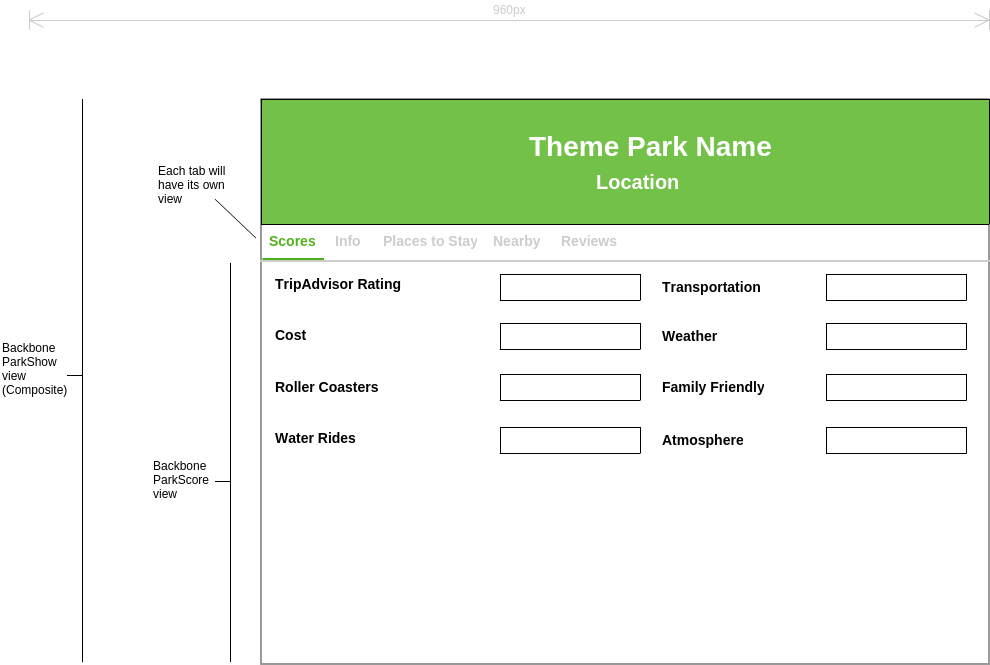
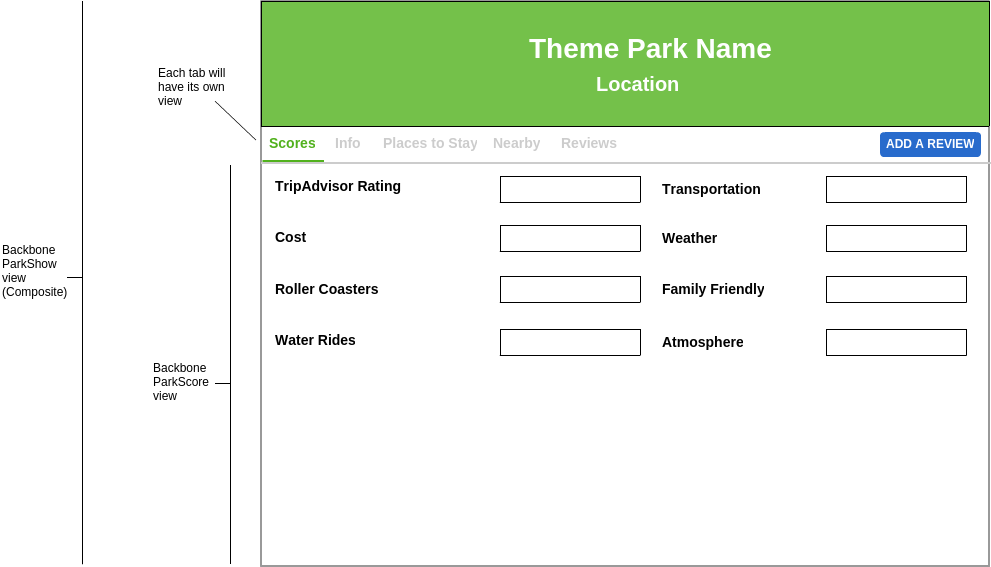
Update README * Update wireframes * Add schema * Add phase descriptions

diff --git a/README.md b/README.md
@@ -1,4 +1,4 @@
-# Flux-capacitr
+# Theme-Park-List
 
 [Heroku link][heroku]
 
@@ -30,46 +30,28 @@ Theme Park List is a clone of Nomadlist built on Rails and Backbone. Users can:
 
 ## Implementation Timeline
 
-### Phase 1: User Authentication, Blog Creation (~1 day)
-I will implement user authentication in Rails based on the practices learned at
-App Academy. By the end of this phase, users will be able to create blogs using
-a simple text form in a Rails view. The most important part of this phase will
-be pushing the app to Heroku and ensuring that everything works before moving on
-to phase 2.
+### Phase 1: Viewing Parks (~2 days)
+I will provide seed data for a few parks to facilitate testing. I will make the rails model, controller and jbuilder views for the parks. Then I'll set up the Backbone views related to parks. By the end of this phase, users should be able to navigate between the parks index view and park show view, and between the different tabs within a park show view.
 
 [Details][phase-one]
 
-### Phase 2: Viewing Blogs and Posts (~2 days)
-I will add API routes to serve blog and post data as JSON, then add Backbone
-models and collections that fetch data from those routes. By the end of this
-phase, users will be able to create blogs and view both blogs and posts, all
-inside a single Backbone app.
+### Phase 2: Derived Attributes (~1 day)
+I will write code in the Rails Park model to provide access to a park's costs and weather. A park's costs will be broken down into different parts, and the data will live in the costs table. The Rails Park model will provide access to these costs, as well as a calculated total cost. A park's weather will be derived from its location. I will need to use an API to convert location into average temp and rainfall. I'll then write methods in the Rails Park model to get the average temp and rainfall for each season, as well as to return an abstracted weather score based on this information.
 
 [Details][phase-two]
 
-### Phase 3: Editing and Displaying Posts (~2 days)
-I plan to use third-party libraries to add functionality to the `PostForm` and
-`PostShow` views in this phase. First I'll need to add a Markdown editor to the
-`PostForm`, and make sure that the Markdown is properly escaped and formatted in
-the `PostShow` view. I also plan to integrate Filepicker for file upload so
-users can add images to blog posts.
+### Phase 3: Filtering and Searching for Parks (~1-2 days)
+I will make a Backbone view to provide a user interface for filtering parks. When the user clicks the "filter parks" button, the ParksIndex view will be updated to only contain parks that meet the selected criteria. I'll also provide a search bar that will update the results of the ParksIndex view as the user types.
 
 [Details][phase-three]
 
-### Phase 4: User Feeds (~1-2 days)
-I'll start by adding a `feed` route that uses the `current_user`'s
-`subscribed_blogs` association to serve a list of blog posts ordered
-chronologically. On the Backbone side, I'll make a `FeedShow` view whose `posts`
-collection fetches from the new route.  Ultimately, this will be the page users
-see after logging in.
+### Phase 4: Users, Follows, and Reviews (~2 days)
+I'll allow users to sign in using OmniAuth. They will be able to follow parks, see a list of their followed parks, and write reviews. I'll update the Rails Park model to automatically update its ratings based on the reviews that users leave.
 
 [Details][phase-four]
 
-### Phase 5: Searching for Blogs and Posts (~2 days)
-I'll need to add `search` routes to both the Blogs and Posts controllers. On the
-Backbone side, there will be a `SearchResults` composite view has `BlogsIndex`
-and `PostsIndex` subviews. These views will use plain old `blogs` and `posts`
-collections, but they will fetch from the new `search` routes.
+### Phase 5: Map of Parks, Nearby Parks (~1 day)
+I'll allow users to view a map of parks on the main page. I'll also add a "nearby parks" tab on the park show page.
 
 [Details][phase-five]
 

diff --git a/docs/schema.md b/docs/schema.md
@@ -1,39 +1,27 @@
 # Schema Information
 
-## blogs
-column name | data type | details
-------------|-----------|-----------------------
-id          | integer   | not null, primary key
-owner_id    | integer   | not null, foreign key (references users)
-title       | string    | not null
+## parks
+column name      | data type | details
+-----------------|-----------|-----------------------
+id               | integer   | not null, primary key
+name             | string    | not null, unique
+location         | string    | not null
+tripadv_rating   | integer   |
+roller_coasters  | integer   |
+water_rides      | integer   |
+user_rating      | integer   |
+atmosphere       | integer   |
+family_friendly  | integer   |
+intesity         | integer   |
+wait_times       | integer   |
 
-## followings
+## costs
 column name | data type | details
 ------------|-----------|-----------------------
 id          | integer   | not null, primary key
-blog_id     | integer   | not null, foreign key (references blogs)
-follower_id | integer   | not null, foreign key (references users)
-
-## posts
-column name | data type | details
-------------|-----------|-----------------------
-id          | integer   | not null, primary key
-author_id   | integer   | not null, foreign key (references users)
-title       | string    | not null
-body        | string    |
-
-## tags
-column name | data type | details
-------------|-----------|-----------------------
-id          | integer   | not null, primary key
-label       | string    | not null, unique
-
-## taggings
-column name | data type | details
-------------|-----------|-----------------------
-id          | integer   | not null, primary key
-post_id     | integer   | not null, foreign key (references posts)
-tag_id      | integer   | not null, foreign key (references tags)
+park_id     | integer   | not null, foreign key (references parks)
+amount      | integer   | not null
+type        | integer   | not null
 
 ## users
 column name     | data type | details
@@ -43,3 +31,23 @@ email           | string    | not null, unique
 password_digest | string    | not null
 session_token   | string    | not null, unique
 
+## reviews
+column name     | data type | details
+----------------|-----------|-----------------------
+id              | integer   | not null, primary key
+author_id       | integer   | not null, foreign key (references users)
+park_id         | integer   | not null, foreign key (references parks)
+overall         | integer   | not null
+atmosphere      | integer   |
+family_friendly | integer   | 
+intesity        | integer   |
+wait_times      | integer   |
+title           | string    |
+body            | text      |
+
+## followings
+column name | data type | details
+------------|-----------|-----------------------
+id          | integer   | not null, primary key
+park_id     | integer   | not null, foreign key (references parks)
+follower_id | integer   | not null, foreign key (references users)

diff --git a/docs/phases/phase2.md b/docs/phases/phase2.md
@@ -2,28 +2,23 @@
 
 ## Rails
 ### Models
+* Cost
 
 ### Controllers
-Api::BlogsController (create, destroy, index, show)
-Api::PostsController (create, destroy, show, update)
 
 ### Views
-* blogs/show.json.jbuilder
+* parks/index.json.jbuilder (update)
+* parks/show.json.jbuilder (update)
+* parks/_park.json.jbuilder (update)
 
 ## Backbone
 ### Models
-* Blog (parses nested `posts` association)
-* Post
 
 ### Collections
-* Blogs
-* Posts
+
 
 ### Views
-* BlogForm
-* BlogShow (composite view, contains PostsIndex subview)
-* PostsIndex (composite view, contains PostsIndexItem subviews)
-* PostsIndexItem
-* PostShow
+* ParkCost
 
 ## Gems/Libraries
+* Possibly something to get weather info from location (TBD)

diff --git a/docs/phases/phase1.md b/docs/phases/phase1.md
@@ -2,27 +2,28 @@
 
 ## Rails
 ### Models
-* User
-* Blog
-* Post
+* Park
 
 ### Controllers
-* UsersController (create, new)
-* SessionsController (create, new, destroy)
-* BlogsController (create, new, show)
-* PostsController (create, new, show)
+* Api::ParksController (index, show)
 
 ### Views
-* users/new.html.erb
-* session/new.html.erb
-* blogs/new.html.erb
-* blogs/show.html.erb
+* parks/index.json.jbuilder
+* parks/show.json.jbuilder
+* parks/_park.json.jbuilder
 
 ## Backbone
 ### Models
+* Park
 
 ### Collections
+* Parks
 
 ### Views
+* ParksIndex
+* ParksIndexItem
+* ParkShow
+* ParkScore
+* ParkInfo
 
 ## Gems/Libraries

diff --git a/docs/phases/phase4.md b/docs/phases/phase4.md
@@ -2,19 +2,33 @@
 
 ## Rails
 ### Models
+* User
+* Review
+* Following
 
 ### Controllers
-Api::PostsController (feed)
+* UsersController (create, new)
+* SessionsController (create, new)
+* ReviewsController (create, update, destroy, show, index)
 
 ### Views
-posts/feed.json.jbuilder
+* users/show.json.jbuilder
+* reviews/index.json.jbuilder
+* reviews/show.json.jbuilder
+* reviews/_review.json.jbuilder
 
 ## Backbone
 ### Models
+* Review
+* User
 
 ### Collections
+* Reviews
 
 ### Views
-* FeedShow (composite view, contains PostsIndex subview)
+* ReviewsIndex
+* ReviewsIndexItem
+* UserShow
 
 ## Gems/Libraries
+* BCrypt

diff --git a/docs/phases/phase5.md b/docs/phases/phase5.md
@@ -4,8 +4,7 @@
 ### Models
 
 ### Controllers
-Api::BlogsController (search)
-Api::PostsController (search)
+
 
 ### Views
 
@@ -15,8 +14,8 @@ Api::PostsController (search)
 ### Collections
 
 ### Views
-* BlogSearchItem
-* SearchShow (composite view, contains BlogsIndex and PostsIndex subviews)
+* ParksMap
+* ParksNearby
 
 ## Gems/Libraries
-
+* Map library (TBD)

diff --git a/docs/views.md b/docs/views.md
@@ -9,6 +9,10 @@
 ## Parks Index item
 ![parks-index-item]
 
+## Review Form
+![review-form]
+
 [main-page]: ./wireframes/main_page.png
 [park_show]: ./wireframes/park_show.png
 [parks-index-item]: ./wireframes/parks_index_item.png
+[review-form]: ./wireframes/review_form.png

diff --git a/docs/phases/phase3.md b/docs/phases/phase3.md
@@ -13,9 +13,6 @@
 ### Collections
 
 ### Views
-* PostForm
+* ParksNav
 
 ## Gems/Libraries
-* Filepicker
-* Markdown-js
-* Bootstrap Markdown
